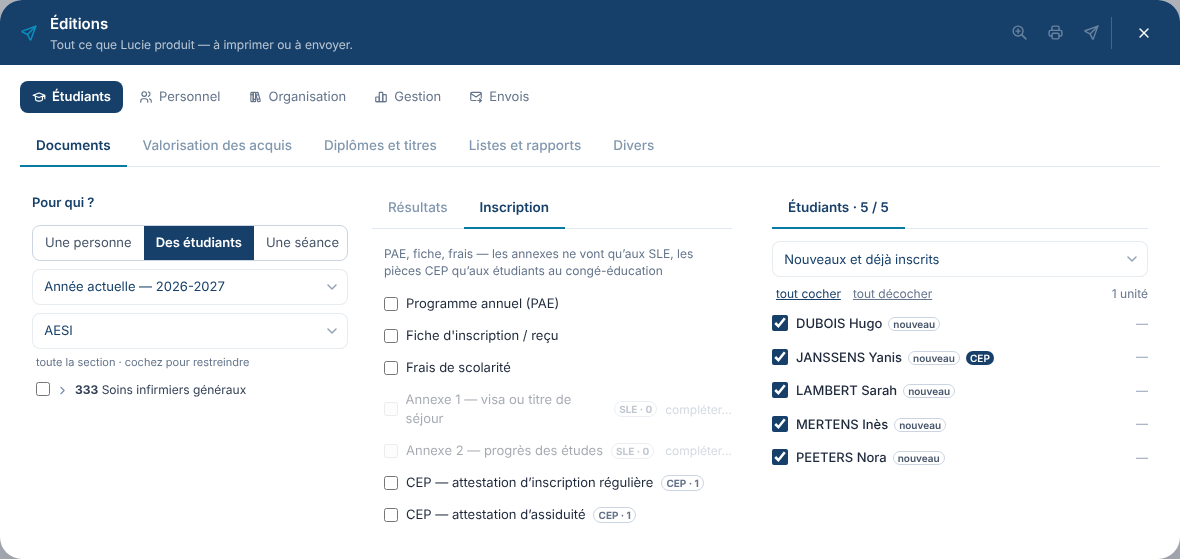
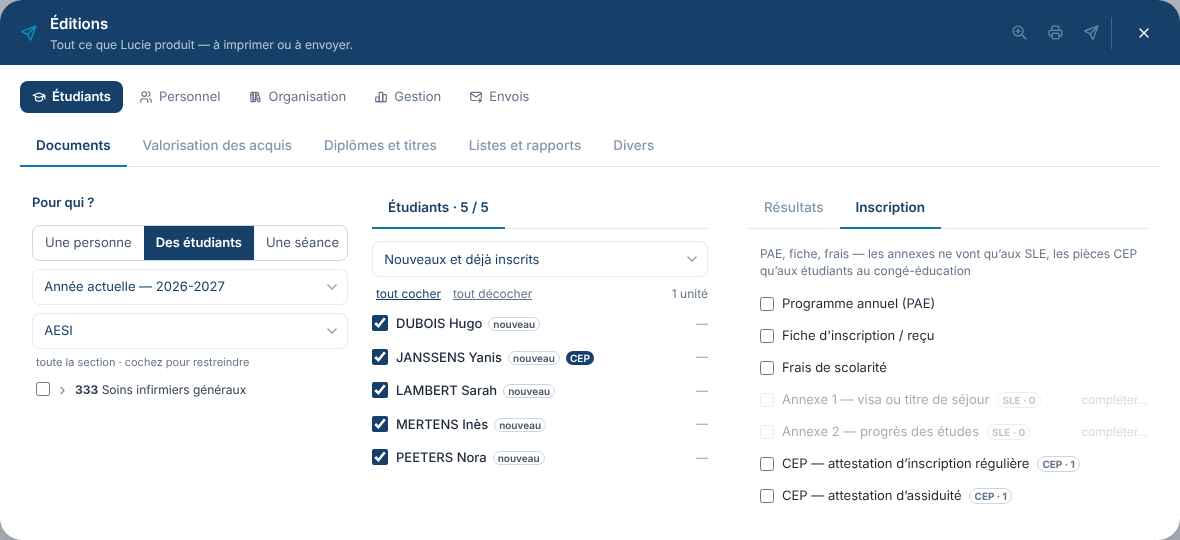
3.1.501 — Éditions en trois volets : pour qui · les étudiants · quoi ; une séance ne se trie pas (délibérés et résultat, sans case ; ses pièces portent toute l'unité) ; une personne n'a pas de volet 2
Claude-Session: https://claude.ai/code/session_012qruWSafZoY4zbyAWnavcA

diff --git a/frontend/src/components/CentreImpressionCentral.jsx b/frontend/src/components/CentreImpressionCentral.jsx
@@ -1904,7 +1904,8 @@ function OngletEtudiants({ perimetre = null, seul = null, onRevenir = null }) {
             // ses pièces — PV, grille, notifications — ne portent alors qu'elle.
             org: perimetre?.org ?? undefined,
             ue_nums: (liste?.unites || []).map(u => u.ue_num),
-            etudiants: [...coches].filter(id => etudiants.find(e => e.id === id)?.decide),
+            // UNE SÉANCE NE SE TRIE PAS (Charles, 30 octobre 2026 : « pas de case à cocher ») : ses pièces portent
+            // toute l'unité — le Conseil comme les délibérés.
             ...drapeaux(),
           }),
         });
@@ -1981,7 +1982,8 @@ function OngletEtudiants({ perimetre = null, seul = null, onRevenir = null }) {
             annee, session: sess, separer: true,
             org: perimetre?.org ?? undefined,
             ue_nums: (liste?.unites || []).map(u => u.ue_num),
-            etudiants: [...coches].filter(id => etudiants.find(e => e.id === id)?.decide),
+            // UNE SÉANCE NE SE TRIE PAS (Charles, 30 octobre 2026 : « pas de case à cocher ») : ses pièces portent
+            // toute l'unité — le Conseil comme les délibérés.
             ...drapeaux(),
           }),
         });
@@ -2050,6 +2052,7 @@ function OngletEtudiants({ perimetre = null, seul = null, onRevenir = null }) {
   const modeSLE = modePublic === 'sle';
   const NOM_PUBLIC = { sle: 'SLE : seuls les étudiants en séjour limité aux études', cep: 'CEP : seuls les étudiants au congé-éducation payé' };
   const visibles = etudiants
+    .filter(e => !seance || e.decide)
     .filter(e => !modePublic || e[modePublic])
     .filter(e => !fNouveau || (fNouveau === 'nouveaux' ? e.nouveau : !e.nouveau))
     .filter(e => !fBloc || e.bloc === fBloc)
@@ -2070,6 +2073,11 @@ function OngletEtudiants({ perimetre = null, seul = null, onRevenir = null }) {
      tout étudiant du périmètre se coche ; la colonne « Reçoit » dit ce qu'il
      recevra, et « — » quand rien ne le concerne. */
   const cochable = () => true;
+  // Une séance ne se trie pas : tous ses délibérés en font partie.
+  useEffect(() => {
+    if (seance) setCoches(new Set(etudiants.filter(e => e.decide).map(e => e.id)));
+    // eslint-disable-next-line
+  }, [seance, etudiants]);
   const recoit = e => {
     const l = [];
     if (seance) {
@@ -2317,7 +2325,7 @@ function OngletEtudiants({ perimetre = null, seul = null, onRevenir = null }) {
       {/* TROIS COLONNES, DU LARGE AU PRÉCIS (Charles, 30 octobre 2026 : « au plus on va à droite, au plus on précise ») :
           pour qui · quoi (résultats ou inscription — pour une séance, le Conseil ou ses étudiants) · les étudiants. */}
       <div className={`flex-1 flex min-h-0 gap-4 ${etudiantVu || (pourQui === 'personne' && !seul) ? 'hidden' : ''}`}>
-      <div className="flex-1 min-w-0 flex flex-col min-h-0">
+      <div className="flex-1 min-w-0 flex flex-col min-h-0 order-last">
 
         {/* LES BOUTONS EN TÊTE, et ce qu'ils vont faire (maquette validée). */}
         <div className="px-3 pt-2 space-y-2.5">
@@ -2353,12 +2361,17 @@ function OngletEtudiants({ perimetre = null, seul = null, onRevenir = null }) {
             </div>
           )}
         </div>
-        {(
+        {/* Le volet 3 s'ouvre quand les précédents sont remplis. */}
+        {!seul && (rien || (!seance && !coches.size) || (seance && !visibles.length)) ? (
+          <p className="p-6 text-sm text-slate-400">{rien
+            ? (seance ? 'Choisissez à gauche la section et l’unité de la séance.' : 'Choisissez à gauche une section, puis ses unités.')
+            : seance ? 'Aucun étudiant délibéré dans cette séance.' : 'Cochez au moins un étudiant.'}</p>
+        ) : (
         <div className="flex-1 overflow-auto min-h-0 p-3 space-y-4">
           <div className="pt-1 max-w-xl">
             {seance ? <>
             <div className={vueDroite === 'a' ? '' : 'hidden'}>
-              <p className="text-second text-slate-500 mt-0 mb-2 pl-3">une pièce pour l’unité</p>
+              <p className="text-second text-slate-500 mt-0 mb-2 pl-3">toujours toute l’unité</p>
               {PIECES.filter(p => !p.nominatif).map(lignePiece)}
             </div>
             <div className={vueDroite === 'b' ? '' : 'hidden'}>
@@ -2389,14 +2402,17 @@ function OngletEtudiants({ perimetre = null, seul = null, onRevenir = null }) {
         </div>
         )}
       </div>
-      <div className="w-[400px] flex-none flex flex-col min-h-0">
+      {/* VOLET 2 — LES ÉTUDIANTS (Charles, 30 octobre 2026 : « volet 1 le périmètre, volet 2 s'ouvre et on choisit les
+          étudiants si plusieurs, ensuite volet 3 et on choisit quoi »). Une personne : pas de volet 2, c'est elle. Une
+          séance : les délibérés et leur résultat, SANS case — ses pièces portent toute l'unité. */}
+      <div className={seul ? 'hidden' : 'w-[360px] flex-none flex flex-col min-h-0'}>
         <div className="px-3 pt-2">
           <div className="flex items-end border-b border-slate-200">
-            <span className="onglet-page onglet-page-actif cursor-default">Étudiants · {coches.size} / {visibles.length}</span>
+            <span className="onglet-page onglet-page-actif cursor-default">{seance ? `Délibérés · ${visibles.length}` : `Étudiants · ${coches.size} / ${visibles.length}`}</span>
           </div>
         </div>
         {/* La colonne des étudiants : ses filtres sur une ligne, puis cocher, sans second filet. */}
-        <div className="px-3 pt-3 pb-1 space-y-2 text-second">
+        <div className={seance || rien ? 'hidden' : 'px-3 pt-3 pb-1 space-y-2 text-second'}>
           {!seul && <div className="flex gap-2">
             <select value={fNouveau} onChange={e => setFNouveau(e.target.value)}
               className="controle flex-1 min-w-0" aria-label="Nouveaux ou déjà inscrits">
@@ -2442,18 +2458,20 @@ function OngletEtudiants({ perimetre = null, seul = null, onRevenir = null }) {
           )}
           {visibles.map(e => (
             <label key={e.id}
-              className={`flex items-center gap-2 px-3 py-1.5 hover:bg-slate-50
-                          cursor-pointer ${cochable(e) ? '' : 'opacity-50'}`}>
-              <input type="checkbox" checked={coches.has(e.id)} disabled={!cochable(e)}
+              className={`flex items-center gap-2 px-3 py-1.5 ${seance ? '' : 'hover:bg-slate-50 cursor-pointer'} ${cochable(e) ? '' : 'opacity-50'}`}>
+              {!seance && <input type="checkbox" checked={coches.has(e.id)} disabled={!cochable(e)}
                 onChange={() => setCoches(s => bascule(s, e.id))}
-                className="w-4 h-4 accent-iip-blue" />
+                className="w-4 h-4 accent-iip-blue" />}
               <span className="flex-1 min-w-0">
                 <span className="text-sm font-medium">{nomPropre(e.nom, e.prenom)}</span>
                 {e.bloc && <span className="ml-1.5 text-mention text-slate-500">{e.bloc === 'MIXTE' ? 'mixte' : e.bloc}</span>}
                 {e.nouveau && <span className="ml-1.5 text-mention font-semibold text-slate-600 border border-slate-300 rounded px-1">nouveau</span>}
                 {e.sle && <span className="ml-1.5 text-mention font-semibold text-white bg-iip-blue rounded px-1 py-px">SLE</span>}
                 {e.cep && <span className="ml-1.5 text-mention font-semibold text-white bg-iip-blue rounded px-1 py-px">CEP</span>}
-                {delib && !parcours && <span className="block text-xs text-slate-500">
+                {seance && e.decide && e.unites?.length === 1 ? (() => {
+                  const r = e.reussites > 0 ? ['réussi', 'var(--c-reussi, #3E7D5E)'] : (e.refus ?? 0) > 0 || session === 2 ? ['refusé', 'var(--c-refuse, #9D4A38)'] : ['ajourné', 'var(--c-attente, #B45309)'];
+                  return <span className="ml-1.5 text-mention font-semibold text-white rounded-full px-1.5" style={{ background: r[1] }}>{r[0]}</span>;
+                })() : delib && !parcours && <span className="block text-xs text-slate-500">
                   {e.decide
                     ? `${e.reussites} réussite(s) · ${e.echecs} échec(s) sur ${e.unites.length} unité(s)`
                     : 'aucune décision pour cette session'}

diff --git a/backend/src/lib/modeEmploi.js b/backend/src/lib/modeEmploi.js
@@ -10,7 +10,7 @@
  *   savoir — ce qu'il faut savoir : les règles qui bloquent ou qui surprennent.
  * Il explique le travail, pas l'informatique (CLAUDE.md, § 7). La version décrite se dit en tête.
  */
-export const VERSION_DECRITE = '3.1.500';
+export const VERSION_DECRITE = '3.1.501';
 
 export const RUBRIQUES = [
   {
@@ -900,16 +900,16 @@ export const RUBRIQUES = [
         texte: "La première question est « Pour qui ? ». « Une personne » : cherchez-la par son nom ou son matricule dans toute l'école, puis « ouvrir ses pièces » — de l'année, ou de tout son parcours. « Des étudiants » : une section, ses unités, des cases à cocher — leurs attestations de réussite, bulletin, PAE, fiche, frais, annexes, pièces CEP, de l'année ou de tout le parcours (une inspection : tout sortir vite). « Une séance » : l'année, la session, l'unité — « Pour le Conseil » (PV, composition, grille, ajournés par cours) et « Pour ses étudiants » (attestations, motivations d'ajournement et de refus). Les autres onglets : « Valorisation des acquis » (par unité), « Diplômes et titres », « Listes et rapports », « Divers » (les lettres composées dans l'atelier).",
         savoir: [
           "La session n'appartient qu'à la séance : une attestation de réussite n'en a pas besoin.",
-          "Trois colonnes, du plus large au plus précis : pour qui · quoi (« Résultats » ou « Inscription » ; pour une séance, « Pour le Conseil » ou « Pour ses étudiants ») · les étudiants, à cocher. Le nombre de pièces cochées se lit dans l'onglet.",
+          "Trois volets, de gauche à droite : 1 pour qui · 2 les étudiants (tous cochés, on décoche ; pour une personne, pas de volet 2 ; pour une séance, les délibérés et leur résultat, sans case — tout part pour toute l'unité) · 3 quoi (« Résultats » ou « Inscription » ; pour une séance, « Pour le Conseil » ou « Pour ses étudiants »). Le volet 3 s'ouvre quand les précédents sont remplis.",
           "Une pièce sans rien à produire est grisée (attestation sans réussite, motivation de refus sans refus…).",
           "Mode SLE : cocher une annexe 1 ou 2 ne montre que les étudiants en séjour limité aux études. Mode CEP : cocher une pièce CEP ne montre que les étudiants au congé-éducation payé de l'année (hors Flandre).",
           "Dans la barre bleue : [[Aperçu|IconZoomIn]], [[Produire|IconPrinter]] et [[Envoyer|IconSend]] — par courriel, un document par personne, jamais de copie collective, à l'adresse d'école.",
         ],
         images: [
           { src: "/guide/editions-personne.png", legende: "« Une personne » (données d'essai) : le nom cherché à gauche, « ouvrir ses pièces » à droite." },
-          { src: "/guide/editions-groupe.png", legende: "« Des étudiants » : l'année ou tout le parcours, la section et ses unités ; au milieu, Résultats ou Inscription ; à droite, les étudiants." },
+          { src: "/guide/editions-groupe.png", legende: "« Des étudiants » : l'année ou tout le parcours, la section et ses unités ; au milieu, les étudiants à cocher ; à droite, Résultats ou Inscription." },
           { src: "/guide/editions-inscription.png", legende: "Le sous-onglet « Inscription » : PAE, fiche, frais, annexes des SLE, pièces CEP." },
-          { src: "/guide/editions-seance.png", legende: "« Une séance » : l'année, la session, l'unité ; « Pour le Conseil » ou « Pour ses étudiants » ; à droite, les étudiants et ce qu'ils ont obtenu." },
+          { src: "/guide/editions-seance.png", legende: "« Une séance » : l'année, la session, l'unité ; au milieu, les délibérés et leur résultat, sans case ; à droite, « Pour le Conseil » ou « Pour ses étudiants »." },
         ],
       },
       {

diff --git a/backend/assets/nouveautes/2026-11.html b/backend/assets/nouveautes/2026-11.html
@@ -110,7 +110,7 @@
 <article class="nouveau" data-pour="sec coo dir">
   <h3>Éditions : « Pour qui ? »</h3>
   <span class="ou">Où : <b>l'avion → Étudiants → Documents</b>.</span>
-  <p>Une seule question d'abord : <b>une personne</b> (on la cherche dans toute l'école, puis ses pièces de l'année ou de tout son parcours), <b>des étudiants</b> (une section, des unités ; l'année ou tout le parcours — pour une inspection, tout sort en une fois), ou <b>une séance</b> (l'année, la session, l'unité : les pièces pour le Conseil et pour ses étudiants). La session ne se demande plus que pour une séance. Trois colonnes, du plus large au plus précis : pour qui, puis quoi (« Résultats » ou « Inscription » ; pour une séance, « Pour le Conseil » ou « Pour ses étudiants »), puis les étudiants à cocher. « Délibération » et « Dossiers étudiants » laissent la place à « Documents » ; les lettres de l'atelier passent dans « Divers ». Aperçu, Produire et Envoyer sont dans la barre bleue.</p>
+  <p>Une seule question d'abord : <b>une personne</b> (on la cherche dans toute l'école, puis ses pièces de l'année ou de tout son parcours), <b>des étudiants</b> (une section, des unités ; l'année ou tout le parcours — pour une inspection, tout sort en une fois), ou <b>une séance</b> (l'année, la session, l'unité : les pièces pour le Conseil et pour ses étudiants). La session ne se demande plus que pour une séance. Trois volets, de gauche à droite : pour qui, puis les étudiants (tous cochés d'office ; pour une séance, les délibérés et leur résultat, sans case : tout part pour toute l'unité), puis quoi (« Résultats » ou « Inscription » ; pour une séance, « Pour le Conseil » ou « Pour ses étudiants »). « Délibération » et « Dossiers étudiants » laissent la place à « Documents » ; les lettres de l'atelier passent dans « Divers ». Aperçu, Produire et Envoyer sont dans la barre bleue.</p>
   <div class="etiquettes"><span class="etiquette dev">À l'essai</span></div>
 </article>
 

diff --git a/CLAUDE.md b/CLAUDE.md
@@ -2805,7 +2805,12 @@ circulé sans qu'on puisse dire qui l'avait sortie. « Je veux des traces. »
   quand l'appel n'apporte que des pièces d'inscription (le PAE de la revue). **Trois colonnes** (3.1.500, Charles :
   « au plus on va à droite, au plus on précise ») : pour qui · quoi (Résultats | Inscription, ou Pour le Conseil |
   Pour ses étudiants) · les étudiants (`w-[400px]`, toujours visibles, filtres sur une ligne) — l'onglet
-  « Étudiants » a disparu.
+  « Étudiants » a disparu. **Trois volets** (3.1.501, Charles : « volet 1 le périmètre, volet 2 les étudiants si
+  plusieurs, volet 3 quoi » ; logigramme v3 validé) : l'ordre devient pour qui · **les étudiants** · **quoi**. Une
+  personne : pas de volet 2. **Une séance ne se trie pas** (« pas de case à cocher ») : le volet 2 liste les délibérés
+  et leur résultat, et `documents-lot` part SANS `etudiants` — PV, grille, composition et pièces des délibérés
+  portent toute l'unité (avant, le PV ne portait que les cochés). Le volet 3 dit ce qui manque tant que les
+  précédents ne sont pas remplis.
 
 **L'ANNULER NE COMPARE QUE CE QUE LE GESTE A CHANGÉ** (3.1.482, Charles, 30 octobre 2026, en production :
   « Impossible d'annuler : utilisateur — la ligne a été modifiée depuis, par quelqu'un »). Se reconnecter écrit
